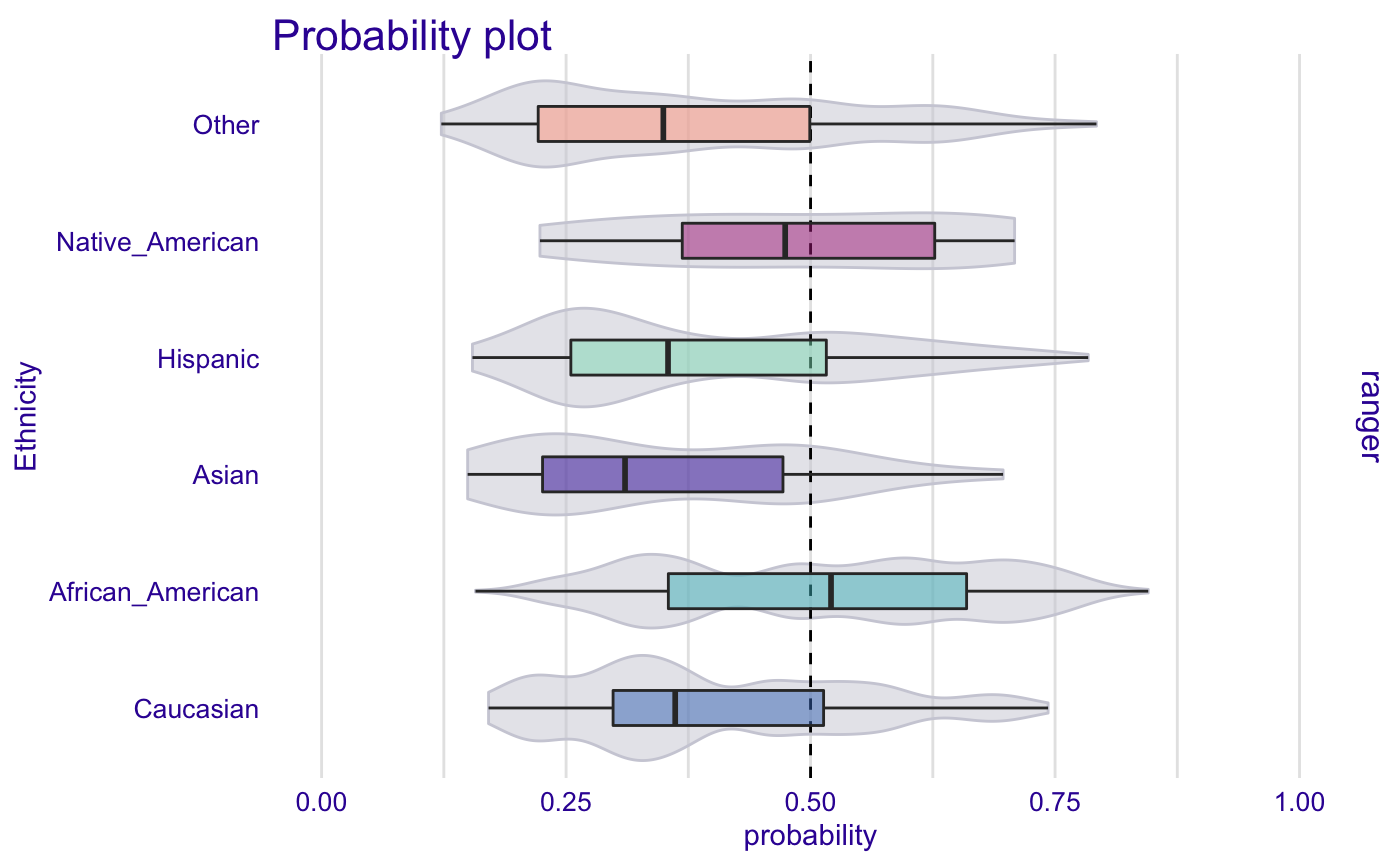
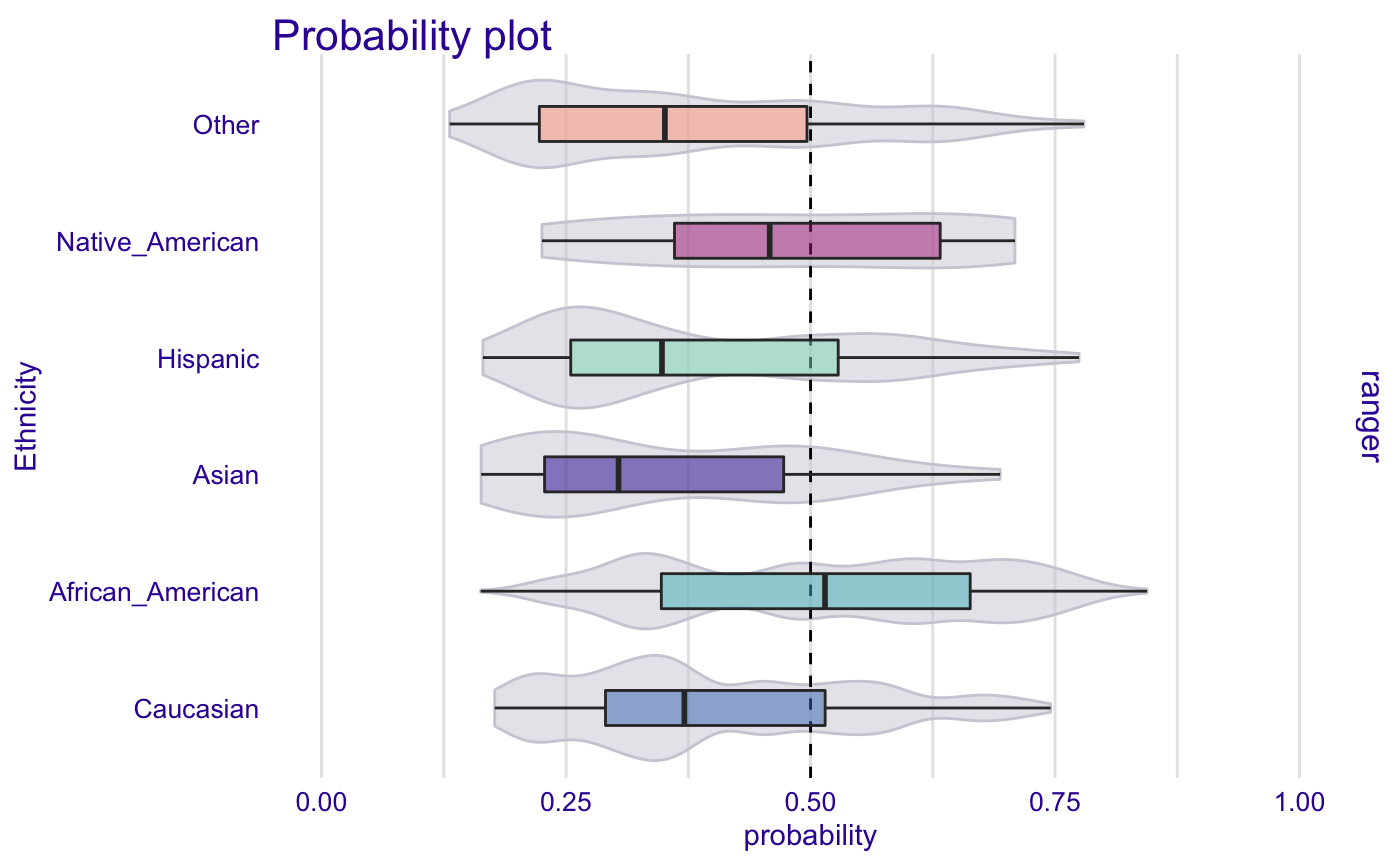
Built site for FairModels: 0.1.0@a598ae2

diff --git a/articles/tutorial.html b/articles/tutorial.html
@@ -146,9 +146,9 @@
 #&gt;   -&gt; target variable   :  6172  values 
 #&gt;   -&gt; model_info        :  package ranger , ver. 0.12.1 , task classification ( [33m default [39m ) 
 #&gt;   -&gt; predict function  :  yhat.ranger  will be used ( [33m default [39m )
-#&gt;   -&gt; predicted values  :  numerical, min =  0.1224364 , mean =  0.4552973 , max =  0.8452849  
+#&gt;   -&gt; predicted values  :  numerical, min =  0.1309288 , mean =  0.4552417 , max =  0.8440747  
 #&gt;   -&gt; residual function :  difference between y and yhat ( [33m default [39m )
-#&gt;   -&gt; residuals         :  numerical, min =  -0.7877045 , mean =  -0.0001774138 , max =  0.8482468  
+#&gt;   -&gt; residuals         :  numerical, min =  -0.7893848 , mean =  -0.0001218051 , max =  0.839898  
 #&gt;  [32m A new explainer has been created! [39m</code></pre>
 <p>Than we create <code>fairness_object</code> with <code><a href="../reference/create_fairness_object.html">create_fairness_object()</a></code></p>
 <div class="sourceCode" id="cb6"><html><body><pre class="r"><span class="no">fobject</span> <span class="kw">&lt;-</span> <span class="fu"><a href="../reference/create_fairness_object.html">create_fairness_object</a></span>(<span class="no">rf_explainer</span>,
